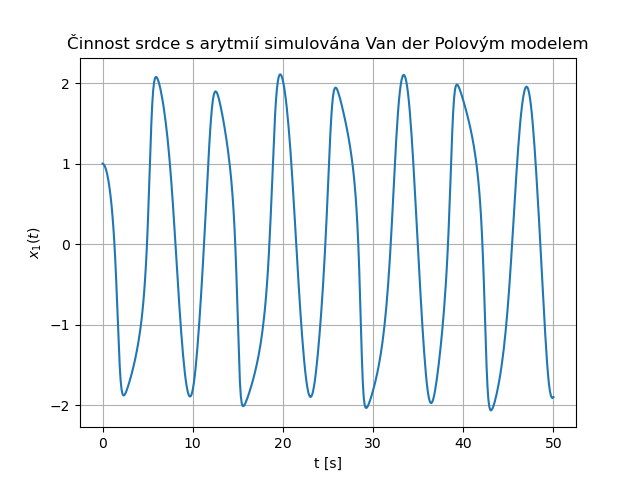
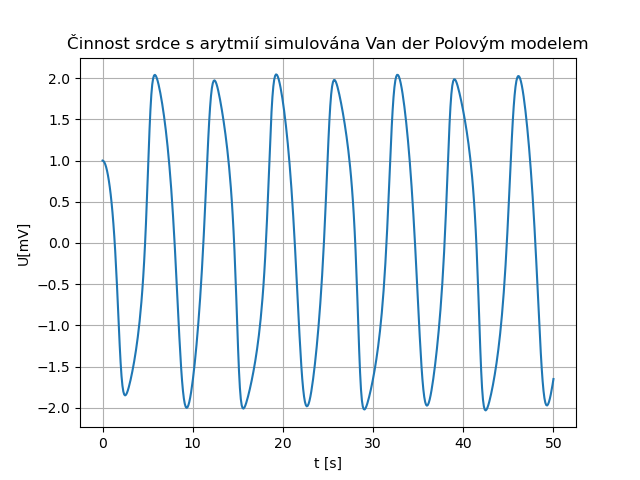
last figs

diff --git a/main.py b/main.py
@@ -16,7 +16,7 @@ sol_no_stim = odeint(simulation.van_der_pol_oscillator_no_stim, x0, t, args=(mu,
 
 plt.plot(t, sol_no_stim[:, 0])
 plt.xlabel('t [s]')
-plt.ylabel(r'$x_1(t)$')
+plt.ylabel('U[mV]')
 plt.grid()
 plt.title('Činnost srdce simulována Van der Polovým modelem')
 plt.show()
@@ -25,7 +25,7 @@ sol_arrhythmia = odeint(simulation.van_der_pol_arrhythmia, x0, t, args=(mu, arrh
 
 plt.plot(t, sol_arrhythmia[:, 0])
 plt.xlabel('t [s]')
-plt.ylabel(r'$x_1(t)$')
+plt.ylabel('U[mV]')
 plt.grid()
 plt.title('Činnost srdce s arytmií simulována Van der Polovým modelem')
 plt.show()
@@ -35,15 +35,25 @@ sol_arrhythmia_stimulator = odeint(simulation.van_der_pol_arrhythmia_stimulator,
 plt.plot(t, sol_arrhythmia_stimulator[:, 0])
 plt.xlabel('t [s]')
 plt.grid()
-plt.ylabel(r'$x_1(t)$')
+plt.ylabel('U[mV]')
 plt.title('Činnost srdce s arytmií regulována kardiostimulátorem')
 plt.show()
+
+plt.plot(t, sol_no_stim[:, 0], label = 'Zdravá srdeční činnost')
+plt.plot(t, sol_arrhythmia_stimulator[:, 0], label = 'Regulovaná srdeční činnost')
+plt.xlabel('t [s]')
+plt.grid()
+plt.legend(loc = 'upper right')
+plt.ylabel('U [mV]')
+plt.title('Srovnání zdravé srdeční činnosti s regulovanou')
+plt.show()
+
 
 sol_cardiac_arrest = odeint(simulation.van_der_pol_cardiac_arrest, x0, t, args=(mu, arrest_time))
 
 plt.plot(t, sol_cardiac_arrest[:, 0])
 plt.xlabel('t [s]')
-plt.ylabel(r'$x_1(t)$')
+plt.ylabel('U[mV]')
 plt.grid()
 plt.title('Srdeční zástava')
 plt.show()
@@ -52,7 +62,7 @@ sol_defibrillator = odeint(simulation.van_der_pol_defibrillator, x0, t, args=(mu
 
 plt.plot(t, sol_defibrillator[:, 0])
 plt.xlabel('t [s]')
-plt.ylabel(r'$x_1(t)$')
+plt.ylabel('U[mV]')
 plt.grid()
 plt.xlim([0, 35])
 plt.ylim([-2, 10])
